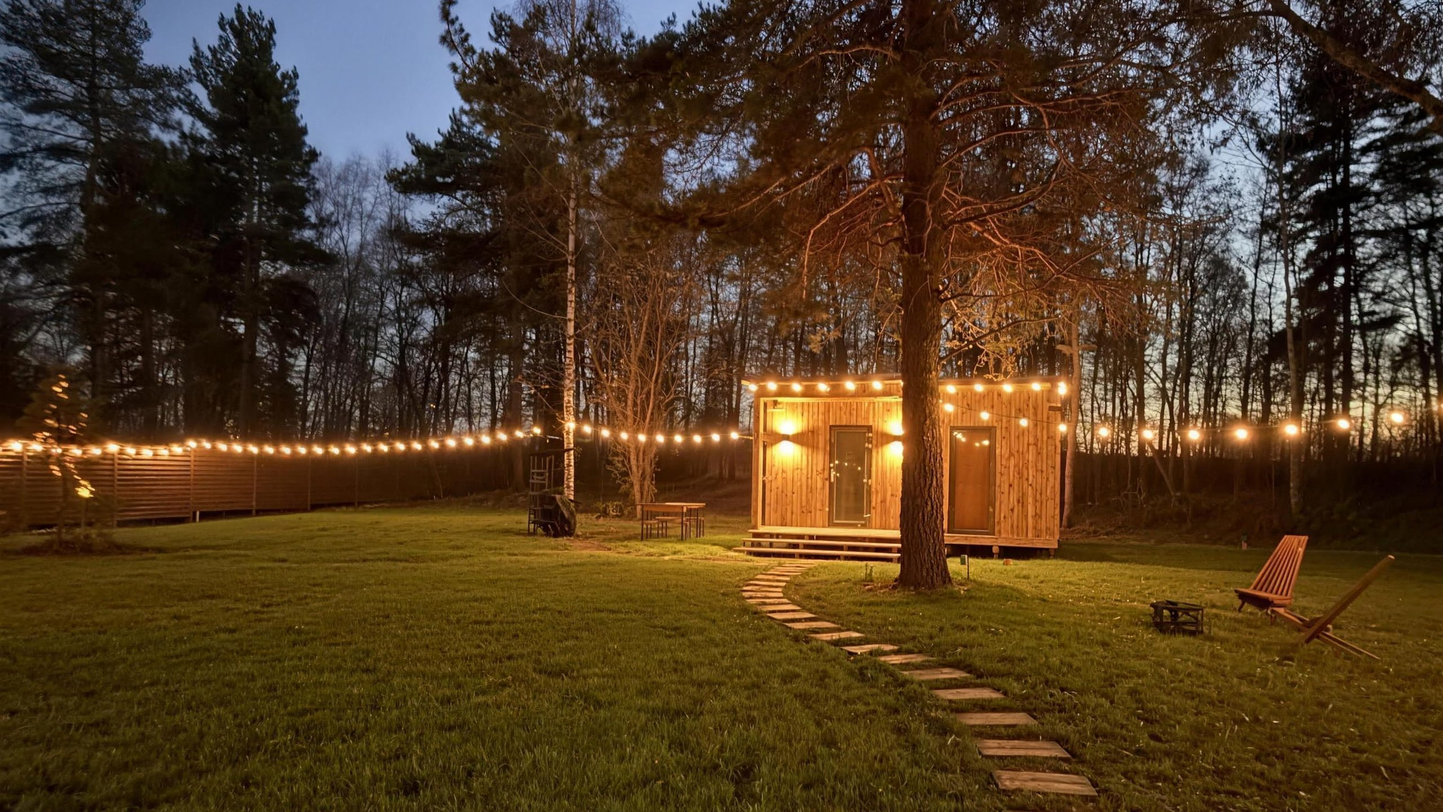
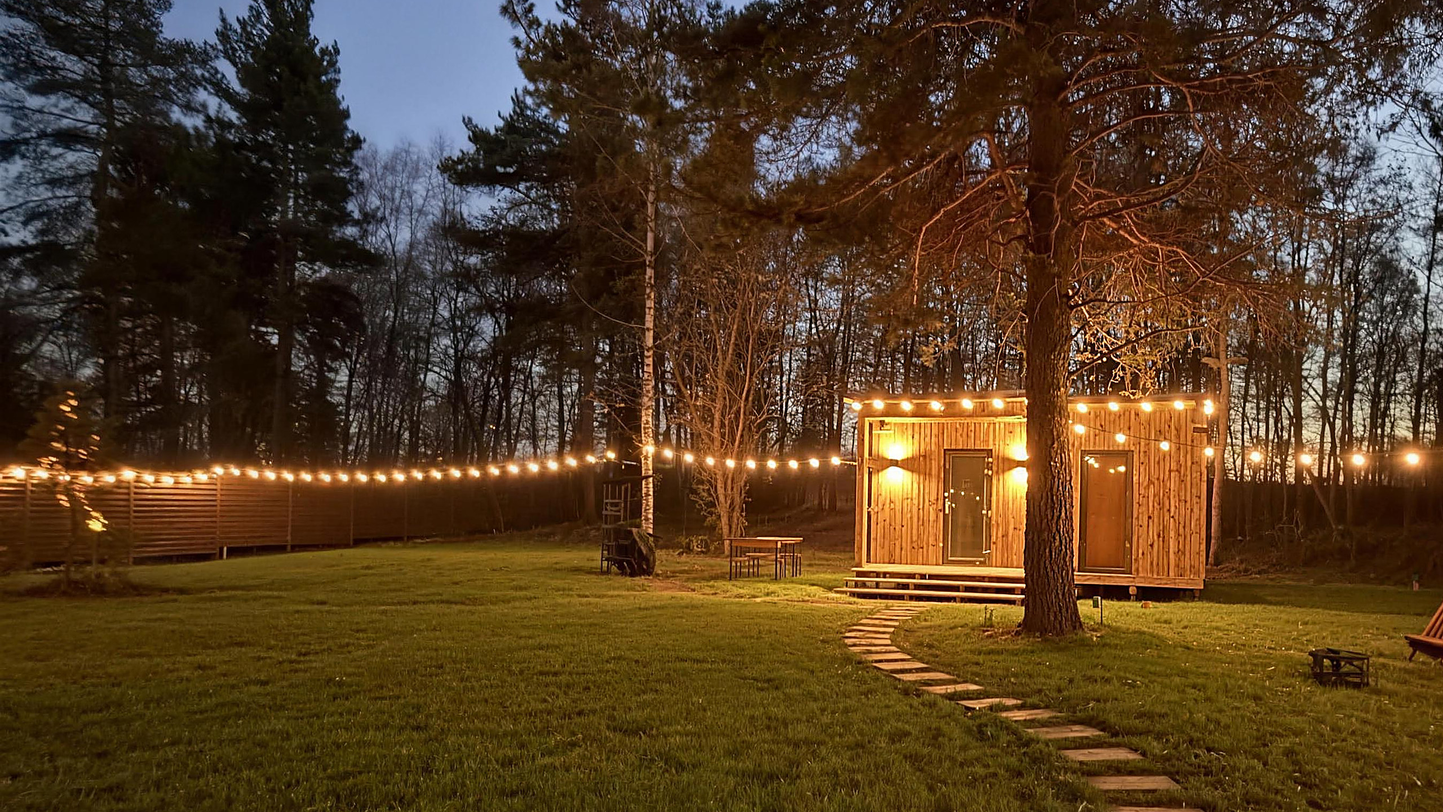
Чёткий дом на главном кадре: новая обрезка, резкость, без зума и карточки
Claude-Session: https://claude.ai/code/session_0125AYmhWDdMvkCNYeUoAhsY

diff --git a/index.html b/index.html
@@ -44,7 +44,7 @@
 </header>
 <main id="main">
 <section class="hero hfull" aria-label="Совиный Бор">
-  <div class="hero-media"><div class="hm-in"><svg class="scene scene-d" viewBox="0 0 1920 1080" preserveAspectRatio="xMidYMid slice" role="img" aria-label="Домик Совиный Бор вечером, горит гирлянда"><defs><filter id="off-d" color-interpolation-filters="sRGB"><feColorMatrix type="matrix" values="0.13 0.05 0.02 0 0  0.09 0.10 0.04 0 0  0.08 0.09 0.15 0 0  0 0 0 1 0"/></filter><filter id="soft-d" x="-50%" y="-50%" width="200%" height="200%"><feGaussianBlur stdDeviation="10.8"/></filter><mask id="m-d" maskUnits="userSpaceOnUse" x="0" y="0" width="1920" height="1080"><rect class="mask-all" width="1920" height="1080" fill="#fff"/><g filter="url(#soft-d)" fill="#000"><circle class="hole" style="--i:0" cx="0" cy="597" r="24"/><circle class="hole" style="--i:1" cx="50" cy="595" r="24"/><circle class="hole" style="--i:2" cx="62" cy="577" r="24"/><circle class="hole" style="--i:3" cx="78" cy="599" r="24"/><circle class="hole" style="--i:4" cx="103" cy="601" r="24"/><circle class="hole" style="--i:5" cx="129" cy="600" r="24"/><circle class="hole" style="--i:6" cx="152" cy="595" r="24"/><circle class="hole" style="--i:7" cx="175" cy="600" r="24"/><circle class="hole" style="--i:8" cx="198" cy="602" r="24"/><circle class="hole" style="--i:9" cx="219" cy="601" r="24"/><circle class="hole" style="--i:10" cx="238" cy="598" r="24"/><circle class="hole" style="--i:11" cx="256" cy="591" r="24"/><circle class="hole" style="--i:12" cx="276" cy="592" r="24"/><circle class="hole" style="--i:13" cx="297" cy="594" r="24"/><circle class="hole" style="--i:14" cx="317" cy="596" r="24"/><circle class="hole" style="--i:15" cx="338" cy="598" r="24"/><circle class="hole" style="--i:16" cx="359" cy="598" r="24"/><circle class="hole" style="--i:17" cx="381" cy="598" r="24"/><circle class="hole" style="--i:18" cx="402" cy="598" r="24"/><circle class="hole" style="--i:19" cx="424" cy="599" r="24"/><circle class="hole" style="--i:20" cx="447" cy="599" r="24"/><circle class="hole" style="--i:21" cx="468" cy="598" r="24"/><circle class="hole" style="--i:22" cx="490" cy="596" r="24"/><circle class="hole" style="--i:23" cx="512" cy="596" r="24"/><circle class="hole" style="--i:24" cx="534" cy="594" r="24"/><circle class="hole" style="--i:25" cx="556" cy="593" r="24"/><circle class="hole" style="--i:26" cx="579" cy="591" r="24"/><circle class="hole" style="--i:27" cx="600" cy="588" r="24"/><circle class="hole" style="--i:28" cx="620" cy="586" r="24"/><circle class="hole" style="--i:29" cx="670" cy="581" r="24"/><circle class="hole" style="--i:30" cx="691" cy="577" r="24"/><circle class="hole" style="--i:31" cx="715" cy="573" r="24"/><circle class="hole" style="--i:32" cx="740" cy="572" r="24"/><circle class="hole" style="--i:33" cx="760" cy="565" r="24"/><circle class="hole" style="--i:34" cx="781" cy="570" r="24"/><circle class="hole" style="--i:35" cx="805" cy="575" r="24"/><circle class="hole" style="--i:36" cx="831" cy="580" r="24"/><circle class="hole" style="--i:37" cx="854" cy="582" r="24"/><circle class="hole" style="--i:38" cx="879" cy="583" r="24"/><circle class="hole" style="--i:39" cx="903" cy="583" r="24"/><circle class="hole" style="--i:40" cx="928" cy="583" r="24"/><circle class="hole" style="--i:41" cx="952" cy="581" r="24"/><circle class="hole" style="--i:42" cx="976" cy="578" r="24"/><circle class="hole" style="--i:43" cx="1002" cy="515" r="24"/><circle class="hole" style="--i:44" cx="1028" cy="513" r="24"/><circle class="hole" style="--i:45" cx="1060" cy="514" r="24"/><circle class="hole" style="--i:46" cx="1095" cy="514" r="24"/><circle class="hole" style="--i:47" cx="1199" cy="509" r="24"/><circle class="hole" style="--i:48" cx="1265" cy="516" r="24"/><circle class="hole" style="--i:49" cx="1303" cy="516" r="24"/><circle class="hole" style="--i:50" cx="1341" cy="516" r="24"/><circle class="hole" style="--i:51" cx="1378" cy="515" r="24"/><circle class="hole" style="--i:52" cx="1413" cy="570" r="24"/><circle class="hole" style="--i:53" cx="1476" cy="568" r="24"/><circle class="hole" style="--i:54" cx="1539" cy="566" r="24"/><circle class="hole" style="--i:55" cx="1602" cy="564" r="24"/><circle class="hole" style="--i:56" cx="1665" cy="562" r="24"/><circle class="hole" style="--i:57" cx="1728" cy="560" r="24"/><circle class="hole" style="--i:58" cx="1791" cy="558" r="24"/><circle class="hole" style="--i:59" cx="1854" cy="556" r="24"/><circle class="hole" style="--i:60" cx="1917" cy="554" r="24"/><circle class="hole lamp" style="--i:64" cx="1048" cy="566" r="72"/><circle class="hole lamp" style="--i:65" cx="1192" cy="566" r="72"/></g></mask></defs><g class="kb"><image data-src="assets/img/hero-desktop.jpg" width="1920" height="1080" preserveAspectRatio="xMidYMid slice"/><image class="off" data-src="assets/img/hero-desktop.jpg" width="1920" height="1080" preserveAspectRatio="xMidYMid slice" filter="url(#off-d)" mask="url(#m-d)"/><g class="sparks"><circle class="spark" style="--d:3.04s;--o:0.45s" cx="0" cy="597" r="2.9"/><circle class="spark" style="--d:3.89s;--o:0.22s" cx="50" cy="595" r="2.9"/><circle class="spark" style="--d:3.59s;--o:1.10s" cx="62" cy="577" r="2.9"/><circle class="spark" style="--d:2.35s;--o:1.52s" cx="78" cy="599" r="2.9"/><circle class="spark" style="--d:2.30s;--o:1.30s" cx="103" cy="601" r="2.9"/><circle class="spark" style="--d:2.38s;--o:0.27s" cx="129" cy="600" r="2.9"/><circle class="spark" style="--d:3.30s;--o:2.48s" cx="152" cy="595" r="2.9"/><circle class="spark" style="--d:2.52s;--o:0.67s" cx="175" cy="600" r="2.9"/><circle class="spark" style="--d:3.83s;--o:2.84s" cx="198" cy="602" r="2.9"/><circle class="spark" style="--d:3.70s;--o:1.19s" cx="219" cy="601" r="2.9"/><circle class="spark" style="--d:4.74s;--o:0.14s" cx="238" cy="598" r="2.9"/><circle class="spark" style="--d:4.43s;--o:0.87s" cx="256" cy="591" r="2.9"/><circle class="spark" style="--d:2.58s;--o:0.35s" cx="276" cy="592" r="2.9"/><circle class="spark" style="--d:3.00s;--o:2.45s" cx="297" cy="594" r="2.9"/><circle class="spark" style="--d:2.67s;--o:1.74s" cx="317" cy="596" r="2.9"/><circle class="spark" style="--d:3.86s;--o:1.12s" cx="338" cy="598" r="2.9"/><circle class="spark" style="--d:3.62s;--o:0.19s" cx="359" cy="598" r="2.9"/><circle class="spark" style="--d:2.35s;--o:0.62s" cx="381" cy="598" r="2.9"/><circle class="spark" style="--d:3.97s;--o:1.28s" cx="402" cy="598" r="2.9"/><circle class="spark" style="--d:3.02s;--o:1.76s" cx="424" cy="599" r="2.9"/><circle class="spark" style="--d:3.38s;--o:0.90s" cx="447" cy="599" r="2.9"/><circle class="spark" style="--d:4.27s;--o:2.10s" cx="468" cy="598" r="2.9"/><circle class="spark" style="--d:2.83s;--o:1.72s" cx="490" cy="596" r="2.9"/><circle class="spark" style="--d:3.57s;--o:2.63s" cx="512" cy="596" r="2.9"/><circle class="spark" style="--d:4.10s;--o:0.86s" cx="534" cy="594" r="2.9"/><circle class="spark" style="--d:4.75s;--o:0.35s" cx="556" cy="593" r="2.9"/><circle class="spark" style="--d:3.29s;--o:2.27s" cx="579" cy="591" r="2.9"/><circle class="spark" style="--d:2.60s;--o:1.47s" cx="600" cy="588" r="2.9"/><circle class="spark" style="--d:2.30s;--o:2.00s" cx="620" cy="586" r="2.9"/><circle class="spark" style="--d:4.19s;--o:1.72s" cx="670" cy="581" r="2.9"/><circle class="spark" style="--d:4.48s;--o:0.94s" cx="691" cy="577" r="2.9"/><circle class="spark" style="--d:4.01s;--o:1.78s" cx="715" cy="573" r="2.9"/><circle class="spark" style="--d:3.71s;--o:1.37s" cx="740" cy="572" r="2.9"/><circle class="spark" style="--d:4.38s;--o:2.83s" cx="760" cy="565" r="2.9"/><circle class="spark" style="--d:3.43s;--o:1.99s" cx="781" cy="570" r="2.9"/><circle class="spark" style="--d:2.36s;--o:2.10s" cx="805" cy="575" r="2.9"/><circle class="spark" style="--d:3.88s;--o:2.98s" cx="831" cy="580" r="2.9"/><circle class="spark" style="--d:4.34s;--o:0.85s" cx="854" cy="582" r="2.9"/><circle class="spark" style="--d:3.20s;--o:2.01s" cx="879" cy="583" r="2.9"/><circle class="spark" style="--d:2.26s;--o:1.39s" cx="903" cy="583" r="2.9"/><circle class="spark" style="--d:2.64s;--o:0.35s" cx="928" cy="583" r="2.9"/><circle class="spark" style="--d:2.35s;--o:2.30s" cx="952" cy="581" r="2.9"/><circle class="spark" style="--d:2.54s;--o:0.74s" cx="976" cy="578" r="2.9"/><circle class="spark" style="--d:3.22s;--o:2.61s" cx="1002" cy="515" r="2.9"/><circle class="spark" style="--d:2.41s;--o:1.35s" cx="1028" cy="513" r="2.9"/><circle class="spark" style="--d:3.63s;--o:2.65s" cx="1060" cy="514" r="2.9"/><circle class="spark" style="--d:4.33s;--o:2.59s" cx="1095" cy="514" r="2.9"/><circle class="spark" style="--d:2.92s;--o:1.25s" cx="1199" cy="509" r="2.9"/><circle class="spark" style="--d:3.13s;--o:2.65s" cx="1265" cy="516" r="2.9"/><circle class="spark" style="--d:4.69s;--o:0.45s" cx="1303" cy="516" r="2.9"/><circle class="spark" style="--d:2.66s;--o:0.70s" cx="1341" cy="516" r="2.9"/><circle class="spark" style="--d:2.81s;--o:1.45s" cx="1378" cy="515" r="2.9"/><circle class="spark" style="--d:3.73s;--o:0.79s" cx="1413" cy="570" r="2.9"/><circle class="spark" style="--d:2.21s;--o:1.26s" cx="1476" cy="568" r="2.9"/><circle class="spark" style="--d:3.16s;--o:1.70s" cx="1539" cy="566" r="2.9"/><circle class="spark" style="--d:4.68s;--o:2.07s" cx="1602" cy="564" r="2.9"/><circle class="spark" style="--d:3.54s;--o:1.85s" cx="1665" cy="562" r="2.9"/><circle class="spark" style="--d:3.96s;--o:0.16s" cx="1728" cy="560" r="2.9"/><circle class="spark" style="--d:4.54s;--o:2.34s" cx="1791" cy="558" r="2.9"/><circle class="spark" style="--d:4.47s;--o:2.39s" cx="1854" cy="556" r="2.9"/><circle class="spark" style="--d:3.22s;--o:1.20s" cx="1917" cy="554" r="2.9"/></g></g></svg><svg class="scene scene-m" viewBox="0 0 1080 1920" preserveAspectRatio="xMidYMid slice" role="img" aria-label="Домик Совиный Бор вечером, горит гирлянда"><defs><filter id="off-m" color-interpolation-filters="sRGB"><feColorMatrix type="matrix" values="0.13 0.05 0.02 0 0  0.09 0.10 0.04 0 0  0.08 0.09 0.15 0 0  0 0 0 1 0"/></filter><filter id="soft-m" x="-50%" y="-50%" width="200%" height="200%"><feGaussianBlur stdDeviation="8.1"/></filter><mask id="m-m" maskUnits="userSpaceOnUse" x="0" y="0" width="1080" height="1920"><rect class="mask-all" width="1080" height="1920" fill="#fff"/><g filter="url(#soft-m)" fill="#000"><circle class="hole" style="--i:0" cx="-360.0" cy="939.9" r="18"/><circle class="hole" style="--i:1" cx="-322.5" cy="938.4" r="18"/><circle class="hole" style="--i:2" cx="-313.5" cy="924.9" r="18"/><circle class="hole" style="--i:3" cx="-301.5" cy="941.4" r="18"/><circle class="hole" style="--i:4" cx="-282.8" cy="942.9" r="18"/><circle class="hole" style="--i:5" cx="-263.2" cy="942.2" r="18"/><circle class="hole" style="--i:6" cx="-246.0" cy="938.4" r="18"/><circle class="hole" style="--i:7" cx="-228.8" cy="942.2" r="18"/><circle class="hole" style="--i:8" cx="-211.5" cy="943.7" r="18"/><circle class="hole" style="--i:9" cx="-195.8" cy="942.9" r="18"/><circle class="hole" style="--i:10" cx="-181.5" cy="940.7" r="18"/><circle class="hole" style="--i:11" cx="-168.0" cy="935.4" r="18"/><circle class="hole" style="--i:12" cx="-153.0" cy="936.2" r="18"/><circle class="hole" style="--i:13" cx="-137.2" cy="937.7" r="18"/><circle class="hole" style="--i:14" cx="-122.2" cy="939.2" r="18"/><circle class="hole" style="--i:15" cx="-106.5" cy="940.7" r="18"/><circle class="hole" style="--i:16" cx="-90.8" cy="940.7" r="18"/><circle class="hole" style="--i:17" cx="-74.2" cy="940.7" r="18"/><circle class="hole" style="--i:18" cx="-58.5" cy="940.7" r="18"/><circle class="hole" style="--i:19" cx="-42.0" cy="941.4" r="18"/><circle class="hole" style="--i:20" cx="-24.7" cy="941.4" r="18"/><circle class="hole" style="--i:21" cx="-9.0" cy="940.7" r="18"/><circle class="hole" style="--i:22" cx="7.5" cy="939.2" r="18"/><circle class="hole" style="--i:23" cx="24.0" cy="939.2" r="18"/><circle class="hole" style="--i:24" cx="40.5" cy="937.7" r="18"/><circle class="hole" style="--i:25" cx="57.0" cy="936.9" r="18"/><circle class="hole" style="--i:26" cx="74.2" cy="935.4" r="18"/><circle class="hole" style="--i:27" cx="90.0" cy="933.2" r="18"/><circle class="hole" style="--i:28" cx="105.0" cy="931.7" r="18"/><circle class="hole" style="--i:29" cx="142.5" cy="927.9" r="18"/><circle class="hole" style="--i:30" cx="158.2" cy="924.9" r="18"/><circle class="hole" style="--i:31" cx="176.2" cy="921.9" r="18"/><circle class="hole" style="--i:32" cx="195.0" cy="921.2" r="18"/><circle class="hole" style="--i:33" cx="210.0" cy="915.9" r="18"/><circle class="hole" style="--i:34" cx="225.7" cy="919.7" r="18"/><circle class="hole" style="--i:35" cx="243.8" cy="923.4" r="18"/><circle class="hole" style="--i:36" cx="263.2" cy="927.2" r="18"/><circle class="hole" style="--i:37" cx="280.5" cy="928.7" r="18"/><circle class="hole" style="--i:38" cx="299.3" cy="929.4" r="18"/><circle class="hole" style="--i:39" cx="317.2" cy="929.4" r="18"/><circle class="hole" style="--i:40" cx="336.0" cy="929.4" r="18"/><circle class="hole" style="--i:41" cx="354.0" cy="927.9" r="18"/><circle class="hole" style="--i:42" cx="372.0" cy="925.7" r="18"/><circle class="hole" style="--i:43" cx="391.5" cy="878.4" r="18"/><circle class="hole" style="--i:44" cx="411.0" cy="876.9" r="18"/><circle class="hole" style="--i:45" cx="435.0" cy="877.7" r="18"/><circle class="hole" style="--i:46" cx="461.2" cy="877.7" r="18"/><circle class="hole" style="--i:47" cx="539.2" cy="873.9" r="18"/><circle class="hole" style="--i:48" cx="588.8" cy="879.2" r="18"/><circle class="hole" style="--i:49" cx="617.3" cy="879.2" r="18"/><circle class="hole" style="--i:50" cx="645.8" cy="879.2" r="18"/><circle class="hole" style="--i:51" cx="673.5" cy="878.4" r="18"/><circle class="hole" style="--i:52" cx="699.8" cy="919.7" r="18"/><circle class="hole" style="--i:53" cx="747.0" cy="918.2" r="18"/><circle class="hole" style="--i:54" cx="794.2" cy="916.7" r="18"/><circle class="hole" style="--i:55" cx="841.5" cy="915.2" r="18"/><circle class="hole" style="--i:56" cx="888.8" cy="913.7" r="18"/><circle class="hole" style="--i:57" cx="936.0" cy="912.2" r="18"/><circle class="hole" style="--i:58" cx="983.2" cy="910.7" r="18"/><circle class="hole" style="--i:59" cx="1030.5" cy="909.2" r="18"/><circle class="hole" style="--i:60" cx="1077.8" cy="907.7" r="18"/><circle class="hole lamp" style="--i:64" cx="426.0" cy="916.7" r="54"/><circle class="hole lamp" style="--i:65" cx="534.0" cy="916.7" r="54"/></g></mask></defs><g class="kb"><image data-src="assets/img/hero-mobile.jpg" width="1080" height="1920" preserveAspectRatio="xMidYMid slice"/><image class="off" data-src="assets/img/hero-mobile.jpg" width="1080" height="1920" preserveAspectRatio="xMidYMid slice" filter="url(#off-m)" mask="url(#m-m)"/><g class="sparks"><circle class="spark" style="--d:3.04s;--o:0.45s" cx="-360.0" cy="939.9" r="2.2"/><circle class="spark" style="--d:3.89s;--o:0.22s" cx="-322.5" cy="938.4" r="2.2"/><circle class="spark" style="--d:3.59s;--o:1.10s" cx="-313.5" cy="924.9" r="2.2"/><circle class="spark" style="--d:2.35s;--o:1.52s" cx="-301.5" cy="941.4" r="2.2"/><circle class="spark" style="--d:2.30s;--o:1.30s" cx="-282.8" cy="942.9" r="2.2"/><circle class="spark" style="--d:2.38s;--o:0.27s" cx="-263.2" cy="942.2" r="2.2"/><circle class="spark" style="--d:3.30s;--o:2.48s" cx="-246.0" cy="938.4" r="2.2"/><circle class="spark" style="--d:2.52s;--o:0.67s" cx="-228.8" cy="942.2" r="2.2"/><circle class="spark" style="--d:3.83s;--o:2.84s" cx="-211.5" cy="943.7" r="2.2"/><circle class="spark" style="--d:3.70s;--o:1.19s" cx="-195.8" cy="942.9" r="2.2"/><circle class="spark" style="--d:4.74s;--o:0.14s" cx="-181.5" cy="940.7" r="2.2"/><circle class="spark" style="--d:4.43s;--o:0.87s" cx="-168.0" cy="935.4" r="2.2"/><circle class="spark" style="--d:2.58s;--o:0.35s" cx="-153.0" cy="936.2" r="2.2"/><circle class="spark" style="--d:3.00s;--o:2.45s" cx="-137.2" cy="937.7" r="2.2"/><circle class="spark" style="--d:2.67s;--o:1.74s" cx="-122.2" cy="939.2" r="2.2"/><circle class="spark" style="--d:3.86s;--o:1.12s" cx="-106.5" cy="940.7" r="2.2"/><circle class="spark" style="--d:3.62s;--o:0.19s" cx="-90.8" cy="940.7" r="2.2"/><circle class="spark" style="--d:2.35s;--o:0.62s" cx="-74.2" cy="940.7" r="2.2"/><circle class="spark" style="--d:3.97s;--o:1.28s" cx="-58.5" cy="940.7" r="2.2"/><circle class="spark" style="--d:3.02s;--o:1.76s" cx="-42.0" cy="941.4" r="2.2"/><circle class="spark" style="--d:3.38s;--o:0.90s" cx="-24.7" cy="941.4" r="2.2"/><circle class="spark" style="--d:4.27s;--o:2.10s" cx="-9.0" cy="940.7" r="2.2"/><circle class="spark" style="--d:2.83s;--o:1.72s" cx="7.5" cy="939.2" r="2.2"/><circle class="spark" style="--d:3.57s;--o:2.63s" cx="24.0" cy="939.2" r="2.2"/><circle class="spark" style="--d:4.10s;--o:0.86s" cx="40.5" cy="937.7" r="2.2"/><circle class="spark" style="--d:4.75s;--o:0.35s" cx="57.0" cy="936.9" r="2.2"/><circle class="spark" style="--d:3.29s;--o:2.27s" cx="74.2" cy="935.4" r="2.2"/><circle class="spark" style="--d:2.60s;--o:1.47s" cx="90.0" cy="933.2" r="2.2"/><circle class="spark" style="--d:2.30s;--o:2.00s" cx="105.0" cy="931.7" r="2.2"/><circle class="spark" style="--d:4.19s;--o:1.72s" cx="142.5" cy="927.9" r="2.2"/><circle class="spark" style="--d:4.48s;--o:0.94s" cx="158.2" cy="924.9" r="2.2"/><circle class="spark" style="--d:4.01s;--o:1.78s" cx="176.2" cy="921.9" r="2.2"/><circle class="spark" style="--d:3.71s;--o:1.37s" cx="195.0" cy="921.2" r="2.2"/><circle class="spark" style="--d:4.38s;--o:2.83s" cx="210.0" cy="915.9" r="2.2"/><circle class="spark" style="--d:3.43s;--o:1.99s" cx="225.7" cy="919.7" r="2.2"/><circle class="spark" style="--d:2.36s;--o:2.10s" cx="243.8" cy="923.4" r="2.2"/><circle class="spark" style="--d:3.88s;--o:2.98s" cx="263.2" cy="927.2" r="2.2"/><circle class="spark" style="--d:4.34s;--o:0.85s" cx="280.5" cy="928.7" r="2.2"/><circle class="spark" style="--d:3.20s;--o:2.01s" cx="299.3" cy="929.4" r="2.2"/><circle class="spark" style="--d:2.26s;--o:1.39s" cx="317.2" cy="929.4" r="2.2"/><circle class="spark" style="--d:2.64s;--o:0.35s" cx="336.0" cy="929.4" r="2.2"/><circle class="spark" style="--d:2.35s;--o:2.30s" cx="354.0" cy="927.9" r="2.2"/><circle class="spark" style="--d:2.54s;--o:0.74s" cx="372.0" cy="925.7" r="2.2"/><circle class="spark" style="--d:3.22s;--o:2.61s" cx="391.5" cy="878.4" r="2.2"/><circle class="spark" style="--d:2.41s;--o:1.35s" cx="411.0" cy="876.9" r="2.2"/><circle class="spark" style="--d:3.63s;--o:2.65s" cx="435.0" cy="877.7" r="2.2"/><circle class="spark" style="--d:4.33s;--o:2.59s" cx="461.2" cy="877.7" r="2.2"/><circle class="spark" style="--d:2.92s;--o:1.25s" cx="539.2" cy="873.9" r="2.2"/><circle class="spark" style="--d:3.13s;--o:2.65s" cx="588.8" cy="879.2" r="2.2"/><circle class="spark" style="--d:4.69s;--o:0.45s" cx="617.3" cy="879.2" r="2.2"/><circle class="spark" style="--d:2.66s;--o:0.70s" cx="645.8" cy="879.2" r="2.2"/><circle class="spark" style="--d:2.81s;--o:1.45s" cx="673.5" cy="878.4" r="2.2"/><circle class="spark" style="--d:3.73s;--o:0.79s" cx="699.8" cy="919.7" r="2.2"/><circle class="spark" style="--d:2.21s;--o:1.26s" cx="747.0" cy="918.2" r="2.2"/><circle class="spark" style="--d:3.16s;--o:1.70s" cx="794.2" cy="916.7" r="2.2"/><circle class="spark" style="--d:4.68s;--o:2.07s" cx="841.5" cy="915.2" r="2.2"/><circle class="spark" style="--d:3.54s;--o:1.85s" cx="888.8" cy="913.7" r="2.2"/><circle class="spark" style="--d:3.96s;--o:0.16s" cx="936.0" cy="912.2" r="2.2"/><circle class="spark" style="--d:4.54s;--o:2.34s" cx="983.2" cy="910.7" r="2.2"/><circle class="spark" style="--d:4.47s;--o:2.39s" cx="1030.5" cy="909.2" r="2.2"/><circle class="spark" style="--d:3.22s;--o:1.20s" cx="1077.8" cy="907.7" r="2.2"/></g></g></svg><script>(function(){var m=window.matchMedia('(max-width: 767px)').matches;var s=document.querySelector(m?'.scene-m':'.scene-d');s.querySelectorAll('image').forEach(function(i){i.setAttribute('href',i.getAttribute('data-src'))});document.querySelector(m?'.scene-d':'.scene-m').remove();})();</script></div></div>
+  <div class="hero-media"><div class="hm-in"><svg class="scene scene-d" viewBox="0 0 1920 1080" preserveAspectRatio="xMidYMid slice" role="img" aria-label="Домик Совиный Бор вечером, горит гирлянда"><defs><filter id="off-d" color-interpolation-filters="sRGB"><feColorMatrix type="matrix" values="0.13 0.05 0.02 0 0  0.09 0.10 0.04 0 0  0.08 0.09 0.15 0 0  0 0 0 1 0"/></filter><filter id="soft-d" x="-50%" y="-50%" width="200%" height="200%"><feGaussianBlur stdDeviation="10.8"/></filter><mask id="m-d" maskUnits="userSpaceOnUse" x="0" y="0" width="1920" height="1080"><rect class="mask-all" width="1920" height="1080" fill="#fff"/><g filter="url(#soft-d)" fill="#000"><circle class="hole" style="--i:0" cx="0.0" cy="632.0" r="24"/><circle class="hole" style="--i:1" cx="56.0" cy="630.0" r="24"/><circle class="hole" style="--i:2" cx="70.0" cy="610.0" r="24"/><circle class="hole" style="--i:3" cx="89.0" cy="635.0" r="24"/><circle class="hole" style="--i:4" cx="118.0" cy="637.0" r="24"/><circle class="hole" style="--i:5" cx="146.0" cy="636.0" r="24"/><circle class="hole" style="--i:6" cx="173.0" cy="630.0" r="24"/><circle class="hole" style="--i:7" cx="199.0" cy="636.0" r="24"/><circle class="hole" style="--i:8" cx="226.0" cy="639.0" r="24"/><circle class="hole" style="--i:9" cx="249.0" cy="637.0" r="24"/><circle class="hole" style="--i:10" cx="271.0" cy="634.0" r="24"/><circle class="hole" style="--i:11" cx="291.0" cy="625.0" r="24"/><circle class="hole" style="--i:12" cx="314.0" cy="627.0" r="24"/><circle class="hole" style="--i:13" cx="338.0" cy="630.0" r="24"/><circle class="hole" style="--i:14" cx="361.0" cy="632.0" r="24"/><circle class="hole" style="--i:15" cx="384.0" cy="633.0" r="24"/><circle class="hole" style="--i:16" cx="409.0" cy="634.0" r="24"/><circle class="hole" style="--i:17" cx="434.0" cy="634.0" r="24"/><circle class="hole" style="--i:18" cx="458.0" cy="635.0" r="24"/><circle class="hole" style="--i:19" cx="483.0" cy="635.0" r="24"/><circle class="hole" style="--i:20" cx="508.0" cy="635.0" r="24"/><circle class="hole" style="--i:21" cx="533.0" cy="634.0" r="24"/><circle class="hole" style="--i:22" cx="557.0" cy="632.0" r="24"/><circle class="hole" style="--i:23" cx="583.0" cy="632.0" r="24"/><circle class="hole" style="--i:24" cx="608.0" cy="630.0" r="24"/><circle class="hole" style="--i:25" cx="633.0" cy="629.0" r="24"/><circle class="hole" style="--i:26" cx="660.0" cy="627.0" r="24"/><circle class="hole" style="--i:27" cx="682.7" cy="622.8" r="24"/><circle class="hole" style="--i:28" cx="705.4" cy="620.5" r="24"/><circle class="hole" style="--i:29" cx="762.0" cy="615.0" r="24"/><circle class="hole" style="--i:30" cx="786.0" cy="610.0" r="24"/><circle class="hole" style="--i:31" cx="813.0" cy="605.0" r="24"/><circle class="hole" style="--i:32" cx="864.0" cy="614.0" r="24"/><circle class="hole" style="--i:33" cx="865.0" cy="597.0" r="24"/><circle class="hole" style="--i:34" cx="889.0" cy="603.0" r="24"/><circle class="hole" style="--i:35" cx="916.0" cy="608.0" r="24"/><circle class="hole" style="--i:36" cx="945.0" cy="614.0" r="24"/><circle class="hole" style="--i:37" cx="971.0" cy="615.0" r="24"/><circle class="hole" style="--i:38" cx="1000.1" cy="617.1" r="24"/><circle class="hole" style="--i:39" cx="1027.4" cy="617.1" r="24"/><circle class="hole" style="--i:40" cx="1055.9" cy="617.1" r="24"/><circle class="hole" style="--i:41" cx="1083.2" cy="614.8" r="24"/><circle class="hole" style="--i:42" cx="1110.5" cy="611.4" r="24"/><circle class="hole" style="--i:43" cx="1140" cy="540" r="24"/><circle class="hole" style="--i:44" cx="1170" cy="538" r="24"/><circle class="hole" style="--i:45" cx="1205" cy="539" r="24"/><circle class="hole" style="--i:46" cx="1245" cy="539" r="24"/><circle class="hole" style="--i:47" cx="1286" cy="536" r="24"/><circle class="hole" style="--i:48" cx="1328" cy="536" r="24"/><circle class="hole" style="--i:49" cx="1440" cy="542" r="24"/><circle class="hole" style="--i:50" cx="1482" cy="540" r="24"/><circle class="hole" style="--i:51" cx="1526" cy="541" r="24"/><circle class="hole" style="--i:52" cx="1568" cy="539" r="24"/><circle class="hole" style="--i:53" cx="1607" cy="545" r="24"/><circle class="hole" style="--i:54" cx="1436" cy="570" r="24"/><circle class="hole" style="--i:55" cx="1491" cy="582" r="24"/><circle class="hole" style="--i:56" cx="1550" cy="593" r="24"/><circle class="hole" style="--i:57" cx="1608" cy="601" r="24"/><circle class="hole" style="--i:58" cx="1670" cy="607" r="24"/><circle class="hole" style="--i:59" cx="1738" cy="610" r="24"/><circle class="hole" style="--i:60" cx="1806" cy="610" r="24"/><circle class="hole" style="--i:61" cx="1878" cy="609" r="24"/><circle class="hole lamp" style="--i:65" cx="1192" cy="598" r="72"/><circle class="hole lamp" style="--i:66" cx="1357" cy="600" r="72"/><circle class="hole lamp" style="--i:67" cx="1195" cy="633" r="72"/><circle class="hole lamp" style="--i:68" cx="1358" cy="634" r="72"/></g></mask></defs><g class="kb"><image data-src="assets/img/hero-desktop.jpg" width="1920" height="1080" preserveAspectRatio="xMidYMid slice"/><image class="off" data-src="assets/img/hero-desktop.jpg" width="1920" height="1080" preserveAspectRatio="xMidYMid slice" filter="url(#off-d)" mask="url(#m-d)"/><g class="sparks"><circle class="spark" style="--d:3.04s;--o:0.45s" cx="0.0" cy="632.0" r="2.9"/><circle class="spark" style="--d:3.89s;--o:0.22s" cx="56.0" cy="630.0" r="2.9"/><circle class="spark" style="--d:3.59s;--o:1.10s" cx="70.0" cy="610.0" r="2.9"/><circle class="spark" style="--d:2.35s;--o:1.52s" cx="89.0" cy="635.0" r="2.9"/><circle class="spark" style="--d:2.30s;--o:1.30s" cx="118.0" cy="637.0" r="2.9"/><circle class="spark" style="--d:2.38s;--o:0.27s" cx="146.0" cy="636.0" r="2.9"/><circle class="spark" style="--d:3.30s;--o:2.48s" cx="173.0" cy="630.0" r="2.9"/><circle class="spark" style="--d:2.52s;--o:0.67s" cx="199.0" cy="636.0" r="2.9"/><circle class="spark" style="--d:3.83s;--o:2.84s" cx="226.0" cy="639.0" r="2.9"/><circle class="spark" style="--d:3.70s;--o:1.19s" cx="249.0" cy="637.0" r="2.9"/><circle class="spark" style="--d:4.74s;--o:0.14s" cx="271.0" cy="634.0" r="2.9"/><circle class="spark" style="--d:4.43s;--o:0.87s" cx="291.0" cy="625.0" r="2.9"/><circle class="spark" style="--d:2.58s;--o:0.35s" cx="314.0" cy="627.0" r="2.9"/><circle class="spark" style="--d:3.00s;--o:2.45s" cx="338.0" cy="630.0" r="2.9"/><circle class="spark" style="--d:2.67s;--o:1.74s" cx="361.0" cy="632.0" r="2.9"/><circle class="spark" style="--d:3.86s;--o:1.12s" cx="384.0" cy="633.0" r="2.9"/><circle class="spark" style="--d:3.62s;--o:0.19s" cx="409.0" cy="634.0" r="2.9"/><circle class="spark" style="--d:2.35s;--o:0.62s" cx="434.0" cy="634.0" r="2.9"/><circle class="spark" style="--d:3.97s;--o:1.28s" cx="458.0" cy="635.0" r="2.9"/><circle class="spark" style="--d:3.02s;--o:1.76s" cx="483.0" cy="635.0" r="2.9"/><circle class="spark" style="--d:3.38s;--o:0.90s" cx="508.0" cy="635.0" r="2.9"/><circle class="spark" style="--d:4.27s;--o:2.10s" cx="533.0" cy="634.0" r="2.9"/><circle class="spark" style="--d:2.83s;--o:1.72s" cx="557.0" cy="632.0" r="2.9"/><circle class="spark" style="--d:3.57s;--o:2.63s" cx="583.0" cy="632.0" r="2.9"/><circle class="spark" style="--d:4.10s;--o:0.86s" cx="608.0" cy="630.0" r="2.9"/><circle class="spark" style="--d:4.75s;--o:0.35s" cx="633.0" cy="629.0" r="2.9"/><circle class="spark" style="--d:3.29s;--o:2.27s" cx="660.0" cy="627.0" r="2.9"/><circle class="spark" style="--d:2.60s;--o:1.47s" cx="682.7" cy="622.8" r="2.9"/><circle class="spark" style="--d:2.30s;--o:2.00s" cx="705.4" cy="620.5" r="2.9"/><circle class="spark" style="--d:4.19s;--o:1.72s" cx="762.0" cy="615.0" r="2.9"/><circle class="spark" style="--d:4.48s;--o:0.94s" cx="786.0" cy="610.0" r="2.9"/><circle class="spark" style="--d:4.01s;--o:1.78s" cx="813.0" cy="605.0" r="2.9"/><circle class="spark" style="--d:3.71s;--o:1.37s" cx="864.0" cy="614.0" r="2.9"/><circle class="spark" style="--d:4.38s;--o:2.83s" cx="865.0" cy="597.0" r="2.9"/><circle class="spark" style="--d:3.43s;--o:1.99s" cx="889.0" cy="603.0" r="2.9"/><circle class="spark" style="--d:2.36s;--o:2.10s" cx="916.0" cy="608.0" r="2.9"/><circle class="spark" style="--d:3.88s;--o:2.98s" cx="945.0" cy="614.0" r="2.9"/><circle class="spark" style="--d:4.34s;--o:0.85s" cx="971.0" cy="615.0" r="2.9"/><circle class="spark" style="--d:3.20s;--o:2.01s" cx="1000.1" cy="617.1" r="2.9"/><circle class="spark" style="--d:2.26s;--o:1.39s" cx="1027.4" cy="617.1" r="2.9"/><circle class="spark" style="--d:2.64s;--o:0.35s" cx="1055.9" cy="617.1" r="2.9"/><circle class="spark" style="--d:2.35s;--o:2.30s" cx="1083.2" cy="614.8" r="2.9"/><circle class="spark" style="--d:2.54s;--o:0.74s" cx="1110.5" cy="611.4" r="2.9"/><circle class="spark" style="--d:3.22s;--o:2.61s" cx="1140" cy="540" r="2.9"/><circle class="spark" style="--d:2.41s;--o:1.35s" cx="1170" cy="538" r="2.9"/><circle class="spark" style="--d:3.63s;--o:2.65s" cx="1205" cy="539" r="2.9"/><circle class="spark" style="--d:4.33s;--o:2.59s" cx="1245" cy="539" r="2.9"/><circle class="spark" style="--d:2.92s;--o:1.25s" cx="1286" cy="536" r="2.9"/><circle class="spark" style="--d:3.13s;--o:2.65s" cx="1328" cy="536" r="2.9"/><circle class="spark" style="--d:4.69s;--o:0.45s" cx="1440" cy="542" r="2.9"/><circle class="spark" style="--d:2.66s;--o:0.70s" cx="1482" cy="540" r="2.9"/><circle class="spark" style="--d:2.81s;--o:1.45s" cx="1526" cy="541" r="2.9"/><circle class="spark" style="--d:3.73s;--o:0.79s" cx="1568" cy="539" r="2.9"/><circle class="spark" style="--d:2.21s;--o:1.26s" cx="1607" cy="545" r="2.9"/><circle class="spark" style="--d:3.16s;--o:1.70s" cx="1436" cy="570" r="2.9"/><circle class="spark" style="--d:4.68s;--o:2.07s" cx="1491" cy="582" r="2.9"/><circle class="spark" style="--d:3.54s;--o:1.85s" cx="1550" cy="593" r="2.9"/><circle class="spark" style="--d:3.96s;--o:0.16s" cx="1608" cy="601" r="2.9"/><circle class="spark" style="--d:4.54s;--o:2.34s" cx="1670" cy="607" r="2.9"/><circle class="spark" style="--d:4.47s;--o:2.39s" cx="1738" cy="610" r="2.9"/><circle class="spark" style="--d:3.22s;--o:1.20s" cx="1806" cy="610" r="2.9"/><circle class="spark" style="--d:2.47s;--o:1.90s" cx="1878" cy="609" r="2.9"/></g></g></svg><svg class="scene scene-m" viewBox="0 0 1080 1920" preserveAspectRatio="xMidYMid slice" role="img" aria-label="Домик Совиный Бор вечером, горит гирлянда"><defs><filter id="off-m" color-interpolation-filters="sRGB"><feColorMatrix type="matrix" values="0.13 0.05 0.02 0 0  0.09 0.10 0.04 0 0  0.08 0.09 0.15 0 0  0 0 0 1 0"/></filter><filter id="soft-m" x="-50%" y="-50%" width="200%" height="200%"><feGaussianBlur stdDeviation="8.1"/></filter><mask id="m-m" maskUnits="userSpaceOnUse" x="0" y="0" width="1080" height="1920"><rect class="mask-all" width="1080" height="1920" fill="#fff"/><g filter="url(#soft-m)" fill="#000"><circle class="hole" style="--i:0" cx="-360.0" cy="939.9" r="18"/><circle class="hole" style="--i:1" cx="-322.5" cy="938.4" r="18"/><circle class="hole" style="--i:2" cx="-313.5" cy="924.9" r="18"/><circle class="hole" style="--i:3" cx="-301.5" cy="941.4" r="18"/><circle class="hole" style="--i:4" cx="-282.8" cy="942.9" r="18"/><circle class="hole" style="--i:5" cx="-263.2" cy="942.2" r="18"/><circle class="hole" style="--i:6" cx="-246.0" cy="938.4" r="18"/><circle class="hole" style="--i:7" cx="-228.8" cy="942.2" r="18"/><circle class="hole" style="--i:8" cx="-211.5" cy="943.7" r="18"/><circle class="hole" style="--i:9" cx="-195.8" cy="942.9" r="18"/><circle class="hole" style="--i:10" cx="-181.5" cy="940.7" r="18"/><circle class="hole" style="--i:11" cx="-168.0" cy="935.4" r="18"/><circle class="hole" style="--i:12" cx="-153.0" cy="936.2" r="18"/><circle class="hole" style="--i:13" cx="-137.2" cy="937.7" r="18"/><circle class="hole" style="--i:14" cx="-122.2" cy="939.2" r="18"/><circle class="hole" style="--i:15" cx="-106.5" cy="940.7" r="18"/><circle class="hole" style="--i:16" cx="-90.8" cy="940.7" r="18"/><circle class="hole" style="--i:17" cx="-74.2" cy="940.7" r="18"/><circle class="hole" style="--i:18" cx="-58.5" cy="940.7" r="18"/><circle class="hole" style="--i:19" cx="-42.0" cy="941.4" r="18"/><circle class="hole" style="--i:20" cx="-24.7" cy="941.4" r="18"/><circle class="hole" style="--i:21" cx="-9.0" cy="940.7" r="18"/><circle class="hole" style="--i:22" cx="7.5" cy="939.2" r="18"/><circle class="hole" style="--i:23" cx="24.0" cy="939.2" r="18"/><circle class="hole" style="--i:24" cx="40.5" cy="937.7" r="18"/><circle class="hole" style="--i:25" cx="57.0" cy="936.9" r="18"/><circle class="hole" style="--i:26" cx="74.2" cy="935.4" r="18"/><circle class="hole" style="--i:27" cx="90.0" cy="933.2" r="18"/><circle class="hole" style="--i:28" cx="105.0" cy="931.7" r="18"/><circle class="hole" style="--i:29" cx="142.5" cy="927.9" r="18"/><circle class="hole" style="--i:30" cx="158.2" cy="924.9" r="18"/><circle class="hole" style="--i:31" cx="176.2" cy="921.9" r="18"/><circle class="hole" style="--i:32" cx="195.0" cy="921.2" r="18"/><circle class="hole" style="--i:33" cx="210.0" cy="915.9" r="18"/><circle class="hole" style="--i:34" cx="225.7" cy="919.7" r="18"/><circle class="hole" style="--i:35" cx="243.8" cy="923.4" r="18"/><circle class="hole" style="--i:36" cx="263.2" cy="927.2" r="18"/><circle class="hole" style="--i:37" cx="280.5" cy="928.7" r="18"/><circle class="hole" style="--i:38" cx="299.3" cy="929.4" r="18"/><circle class="hole" style="--i:39" cx="317.2" cy="929.4" r="18"/><circle class="hole" style="--i:40" cx="336.0" cy="929.4" r="18"/><circle class="hole" style="--i:41" cx="354.0" cy="927.9" r="18"/><circle class="hole" style="--i:42" cx="372.0" cy="925.7" r="18"/><circle class="hole" style="--i:43" cx="391.5" cy="878.4" r="18"/><circle class="hole" style="--i:44" cx="411.0" cy="876.9" r="18"/><circle class="hole" style="--i:45" cx="435.0" cy="877.7" r="18"/><circle class="hole" style="--i:46" cx="461.2" cy="877.7" r="18"/><circle class="hole" style="--i:47" cx="539.2" cy="873.9" r="18"/><circle class="hole" style="--i:48" cx="588.8" cy="879.2" r="18"/><circle class="hole" style="--i:49" cx="617.3" cy="879.2" r="18"/><circle class="hole" style="--i:50" cx="645.8" cy="879.2" r="18"/><circle class="hole" style="--i:51" cx="673.5" cy="878.4" r="18"/><circle class="hole" style="--i:52" cx="699.8" cy="919.7" r="18"/><circle class="hole" style="--i:53" cx="747.0" cy="918.2" r="18"/><circle class="hole" style="--i:54" cx="794.2" cy="916.7" r="18"/><circle class="hole" style="--i:55" cx="841.5" cy="915.2" r="18"/><circle class="hole" style="--i:56" cx="888.8" cy="913.7" r="18"/><circle class="hole" style="--i:57" cx="936.0" cy="912.2" r="18"/><circle class="hole" style="--i:58" cx="983.2" cy="910.7" r="18"/><circle class="hole" style="--i:59" cx="1030.5" cy="909.2" r="18"/><circle class="hole" style="--i:60" cx="1077.8" cy="907.7" r="18"/><circle class="hole lamp" style="--i:64" cx="426.0" cy="916.7" r="54"/><circle class="hole lamp" style="--i:65" cx="534.0" cy="916.7" r="54"/></g></mask></defs><g class="kb"><image data-src="assets/img/hero-mobile.jpg" width="1080" height="1920" preserveAspectRatio="xMidYMid slice"/><image class="off" data-src="assets/img/hero-mobile.jpg" width="1080" height="1920" preserveAspectRatio="xMidYMid slice" filter="url(#off-m)" mask="url(#m-m)"/><g class="sparks"><circle class="spark" style="--d:3.04s;--o:0.45s" cx="-360.0" cy="939.9" r="2.2"/><circle class="spark" style="--d:3.89s;--o:0.22s" cx="-322.5" cy="938.4" r="2.2"/><circle class="spark" style="--d:3.59s;--o:1.10s" cx="-313.5" cy="924.9" r="2.2"/><circle class="spark" style="--d:2.35s;--o:1.52s" cx="-301.5" cy="941.4" r="2.2"/><circle class="spark" style="--d:2.30s;--o:1.30s" cx="-282.8" cy="942.9" r="2.2"/><circle class="spark" style="--d:2.38s;--o:0.27s" cx="-263.2" cy="942.2" r="2.2"/><circle class="spark" style="--d:3.30s;--o:2.48s" cx="-246.0" cy="938.4" r="2.2"/><circle class="spark" style="--d:2.52s;--o:0.67s" cx="-228.8" cy="942.2" r="2.2"/><circle class="spark" style="--d:3.83s;--o:2.84s" cx="-211.5" cy="943.7" r="2.2"/><circle class="spark" style="--d:3.70s;--o:1.19s" cx="-195.8" cy="942.9" r="2.2"/><circle class="spark" style="--d:4.74s;--o:0.14s" cx="-181.5" cy="940.7" r="2.2"/><circle class="spark" style="--d:4.43s;--o:0.87s" cx="-168.0" cy="935.4" r="2.2"/><circle class="spark" style="--d:2.58s;--o:0.35s" cx="-153.0" cy="936.2" r="2.2"/><circle class="spark" style="--d:3.00s;--o:2.45s" cx="-137.2" cy="937.7" r="2.2"/><circle class="spark" style="--d:2.67s;--o:1.74s" cx="-122.2" cy="939.2" r="2.2"/><circle class="spark" style="--d:3.86s;--o:1.12s" cx="-106.5" cy="940.7" r="2.2"/><circle class="spark" style="--d:3.62s;--o:0.19s" cx="-90.8" cy="940.7" r="2.2"/><circle class="spark" style="--d:2.35s;--o:0.62s" cx="-74.2" cy="940.7" r="2.2"/><circle class="spark" style="--d:3.97s;--o:1.28s" cx="-58.5" cy="940.7" r="2.2"/><circle class="spark" style="--d:3.02s;--o:1.76s" cx="-42.0" cy="941.4" r="2.2"/><circle class="spark" style="--d:3.38s;--o:0.90s" cx="-24.7" cy="941.4" r="2.2"/><circle class="spark" style="--d:4.27s;--o:2.10s" cx="-9.0" cy="940.7" r="2.2"/><circle class="spark" style="--d:2.83s;--o:1.72s" cx="7.5" cy="939.2" r="2.2"/><circle class="spark" style="--d:3.57s;--o:2.63s" cx="24.0" cy="939.2" r="2.2"/><circle class="spark" style="--d:4.10s;--o:0.86s" cx="40.5" cy="937.7" r="2.2"/><circle class="spark" style="--d:4.75s;--o:0.35s" cx="57.0" cy="936.9" r="2.2"/><circle class="spark" style="--d:3.29s;--o:2.27s" cx="74.2" cy="935.4" r="2.2"/><circle class="spark" style="--d:2.60s;--o:1.47s" cx="90.0" cy="933.2" r="2.2"/><circle class="spark" style="--d:2.30s;--o:2.00s" cx="105.0" cy="931.7" r="2.2"/><circle class="spark" style="--d:4.19s;--o:1.72s" cx="142.5" cy="927.9" r="2.2"/><circle class="spark" style="--d:4.48s;--o:0.94s" cx="158.2" cy="924.9" r="2.2"/><circle class="spark" style="--d:4.01s;--o:1.78s" cx="176.2" cy="921.9" r="2.2"/><circle class="spark" style="--d:3.71s;--o:1.37s" cx="195.0" cy="921.2" r="2.2"/><circle class="spark" style="--d:4.38s;--o:2.83s" cx="210.0" cy="915.9" r="2.2"/><circle class="spark" style="--d:3.43s;--o:1.99s" cx="225.7" cy="919.7" r="2.2"/><circle class="spark" style="--d:2.36s;--o:2.10s" cx="243.8" cy="923.4" r="2.2"/><circle class="spark" style="--d:3.88s;--o:2.98s" cx="263.2" cy="927.2" r="2.2"/><circle class="spark" style="--d:4.34s;--o:0.85s" cx="280.5" cy="928.7" r="2.2"/><circle class="spark" style="--d:3.20s;--o:2.01s" cx="299.3" cy="929.4" r="2.2"/><circle class="spark" style="--d:2.26s;--o:1.39s" cx="317.2" cy="929.4" r="2.2"/><circle class="spark" style="--d:2.64s;--o:0.35s" cx="336.0" cy="929.4" r="2.2"/><circle class="spark" style="--d:2.35s;--o:2.30s" cx="354.0" cy="927.9" r="2.2"/><circle class="spark" style="--d:2.54s;--o:0.74s" cx="372.0" cy="925.7" r="2.2"/><circle class="spark" style="--d:3.22s;--o:2.61s" cx="391.5" cy="878.4" r="2.2"/><circle class="spark" style="--d:2.41s;--o:1.35s" cx="411.0" cy="876.9" r="2.2"/><circle class="spark" style="--d:3.63s;--o:2.65s" cx="435.0" cy="877.7" r="2.2"/><circle class="spark" style="--d:4.33s;--o:2.59s" cx="461.2" cy="877.7" r="2.2"/><circle class="spark" style="--d:2.92s;--o:1.25s" cx="539.2" cy="873.9" r="2.2"/><circle class="spark" style="--d:3.13s;--o:2.65s" cx="588.8" cy="879.2" r="2.2"/><circle class="spark" style="--d:4.69s;--o:0.45s" cx="617.3" cy="879.2" r="2.2"/><circle class="spark" style="--d:2.66s;--o:0.70s" cx="645.8" cy="879.2" r="2.2"/><circle class="spark" style="--d:2.81s;--o:1.45s" cx="673.5" cy="878.4" r="2.2"/><circle class="spark" style="--d:3.73s;--o:0.79s" cx="699.8" cy="919.7" r="2.2"/><circle class="spark" style="--d:2.21s;--o:1.26s" cx="747.0" cy="918.2" r="2.2"/><circle class="spark" style="--d:3.16s;--o:1.70s" cx="794.2" cy="916.7" r="2.2"/><circle class="spark" style="--d:4.68s;--o:2.07s" cx="841.5" cy="915.2" r="2.2"/><circle class="spark" style="--d:3.54s;--o:1.85s" cx="888.8" cy="913.7" r="2.2"/><circle class="spark" style="--d:3.96s;--o:0.16s" cx="936.0" cy="912.2" r="2.2"/><circle class="spark" style="--d:4.54s;--o:2.34s" cx="983.2" cy="910.7" r="2.2"/><circle class="spark" style="--d:4.47s;--o:2.39s" cx="1030.5" cy="909.2" r="2.2"/><circle class="spark" style="--d:3.22s;--o:1.20s" cx="1077.8" cy="907.7" r="2.2"/></g></g></svg><script>(function(){var m=window.matchMedia('(max-width: 767px)').matches;var s=document.querySelector(m?'.scene-m':'.scene-d');s.querySelectorAll('image').forEach(function(i){i.setAttribute('href',i.getAttribute('data-src'))});document.querySelector(m?'.scene-d':'.scene-m').remove();})();</script></div></div>
   <div class="wrap hero-inner">
     <div>
       <span class="eyebrow">Глэмпинг у озера в Подмосковье</span>
@@ -53,18 +53,13 @@
       <div class="hero-cta">
         <a class="btn btn-primary" href="booking/index.html#booking">Выбрать даты <i class="ph ph-arrow-right"></i></a>
         <div class="proof">
+          <span><i class="ph ph-moon-stars"></i>от 9 000 ₽ за ночь</span>
           <span><i class="ph ph-map-pin"></i>25 км от МКАД</span>
           <span><i class="ph ph-waves"></i>Озеро рядом</span>
           <span><i class="ph ph-key"></i>Заселение без ожидания</span>
         </div>
       </div>
     </div>
-    <aside class="hero-card" aria-label="Стоимость">
-      <span class="live">Только один домик</span>
-      <div><span class="t-sm muted">Ночь в будни</span><div class="price">9 000 ₽</div></div>
-      <div class="row"><span>Пятница, суббота, воскресенье</span><b>11 000 ₽</b></div>
-      <div class="row"><span>Промокод на первую бронь</span><b style="color:var(--accent)">−5%</b></div>
-    </aside>
   </div>
   <canvas class="neuro" aria-hidden="true"></canvas>
   <div class="hero-owl" aria-hidden="false">

diff --git a/assets/app.js b/assets/app.js
@@ -36,7 +36,7 @@
     if (nav && !document.body.classList.contains('menu-open')) nav.classList.toggle('is-hidden', y > 240 && y > lastY);
     if (mbar) mbar.classList.toggle('on', y > window.innerHeight * 0.8 && !isNearBooking());
     var hm = $('.hero-media');
-    if (hm && !reduce && y < window.innerHeight * 1.2) hm.style.transform = 'translate3d(0,' + (y * 0.25).toFixed(1) + 'px,0)';
+    if (hm && !reduce && y < window.innerHeight * 1.2) hm.style.transform = 'translate3d(0,' + Math.round(y * 0.25) + 'px,0)';
     lastY = y; ticking = false;
   }
   function isNearBooking() { var b = $('#booking'); if (!b) return false; var r = b.getBoundingClientRect(); return r.top < window.innerHeight && r.bottom > 0; }

diff --git a/assets/style.css b/assets/style.css
@@ -1077,3 +1077,9 @@ select.input { appearance: none; background-image: none; cursor: pointer; }
 @media (max-width: 1023px) { .hero-owl { width: 300px; } .ho-bubble { right: 72%; max-width: 170px; } }
 .hero.hfull .hero-media { inset: 0; }
 .hero-card .row b { white-space: nowrap; }
+
+/* Чёткий кадр: без зума и почти без затемнения */
+.hero.hfull .scene .kb { animation: none !important; transform: none !important; }
+.hero.hfull::before { background: rgba(19, 18, 9, .16); }
+.hero.hfull::after { height: 46%; background: rgba(19, 18, 9, .6); }
+.hero.hfull .scene { image-rendering: auto; }
